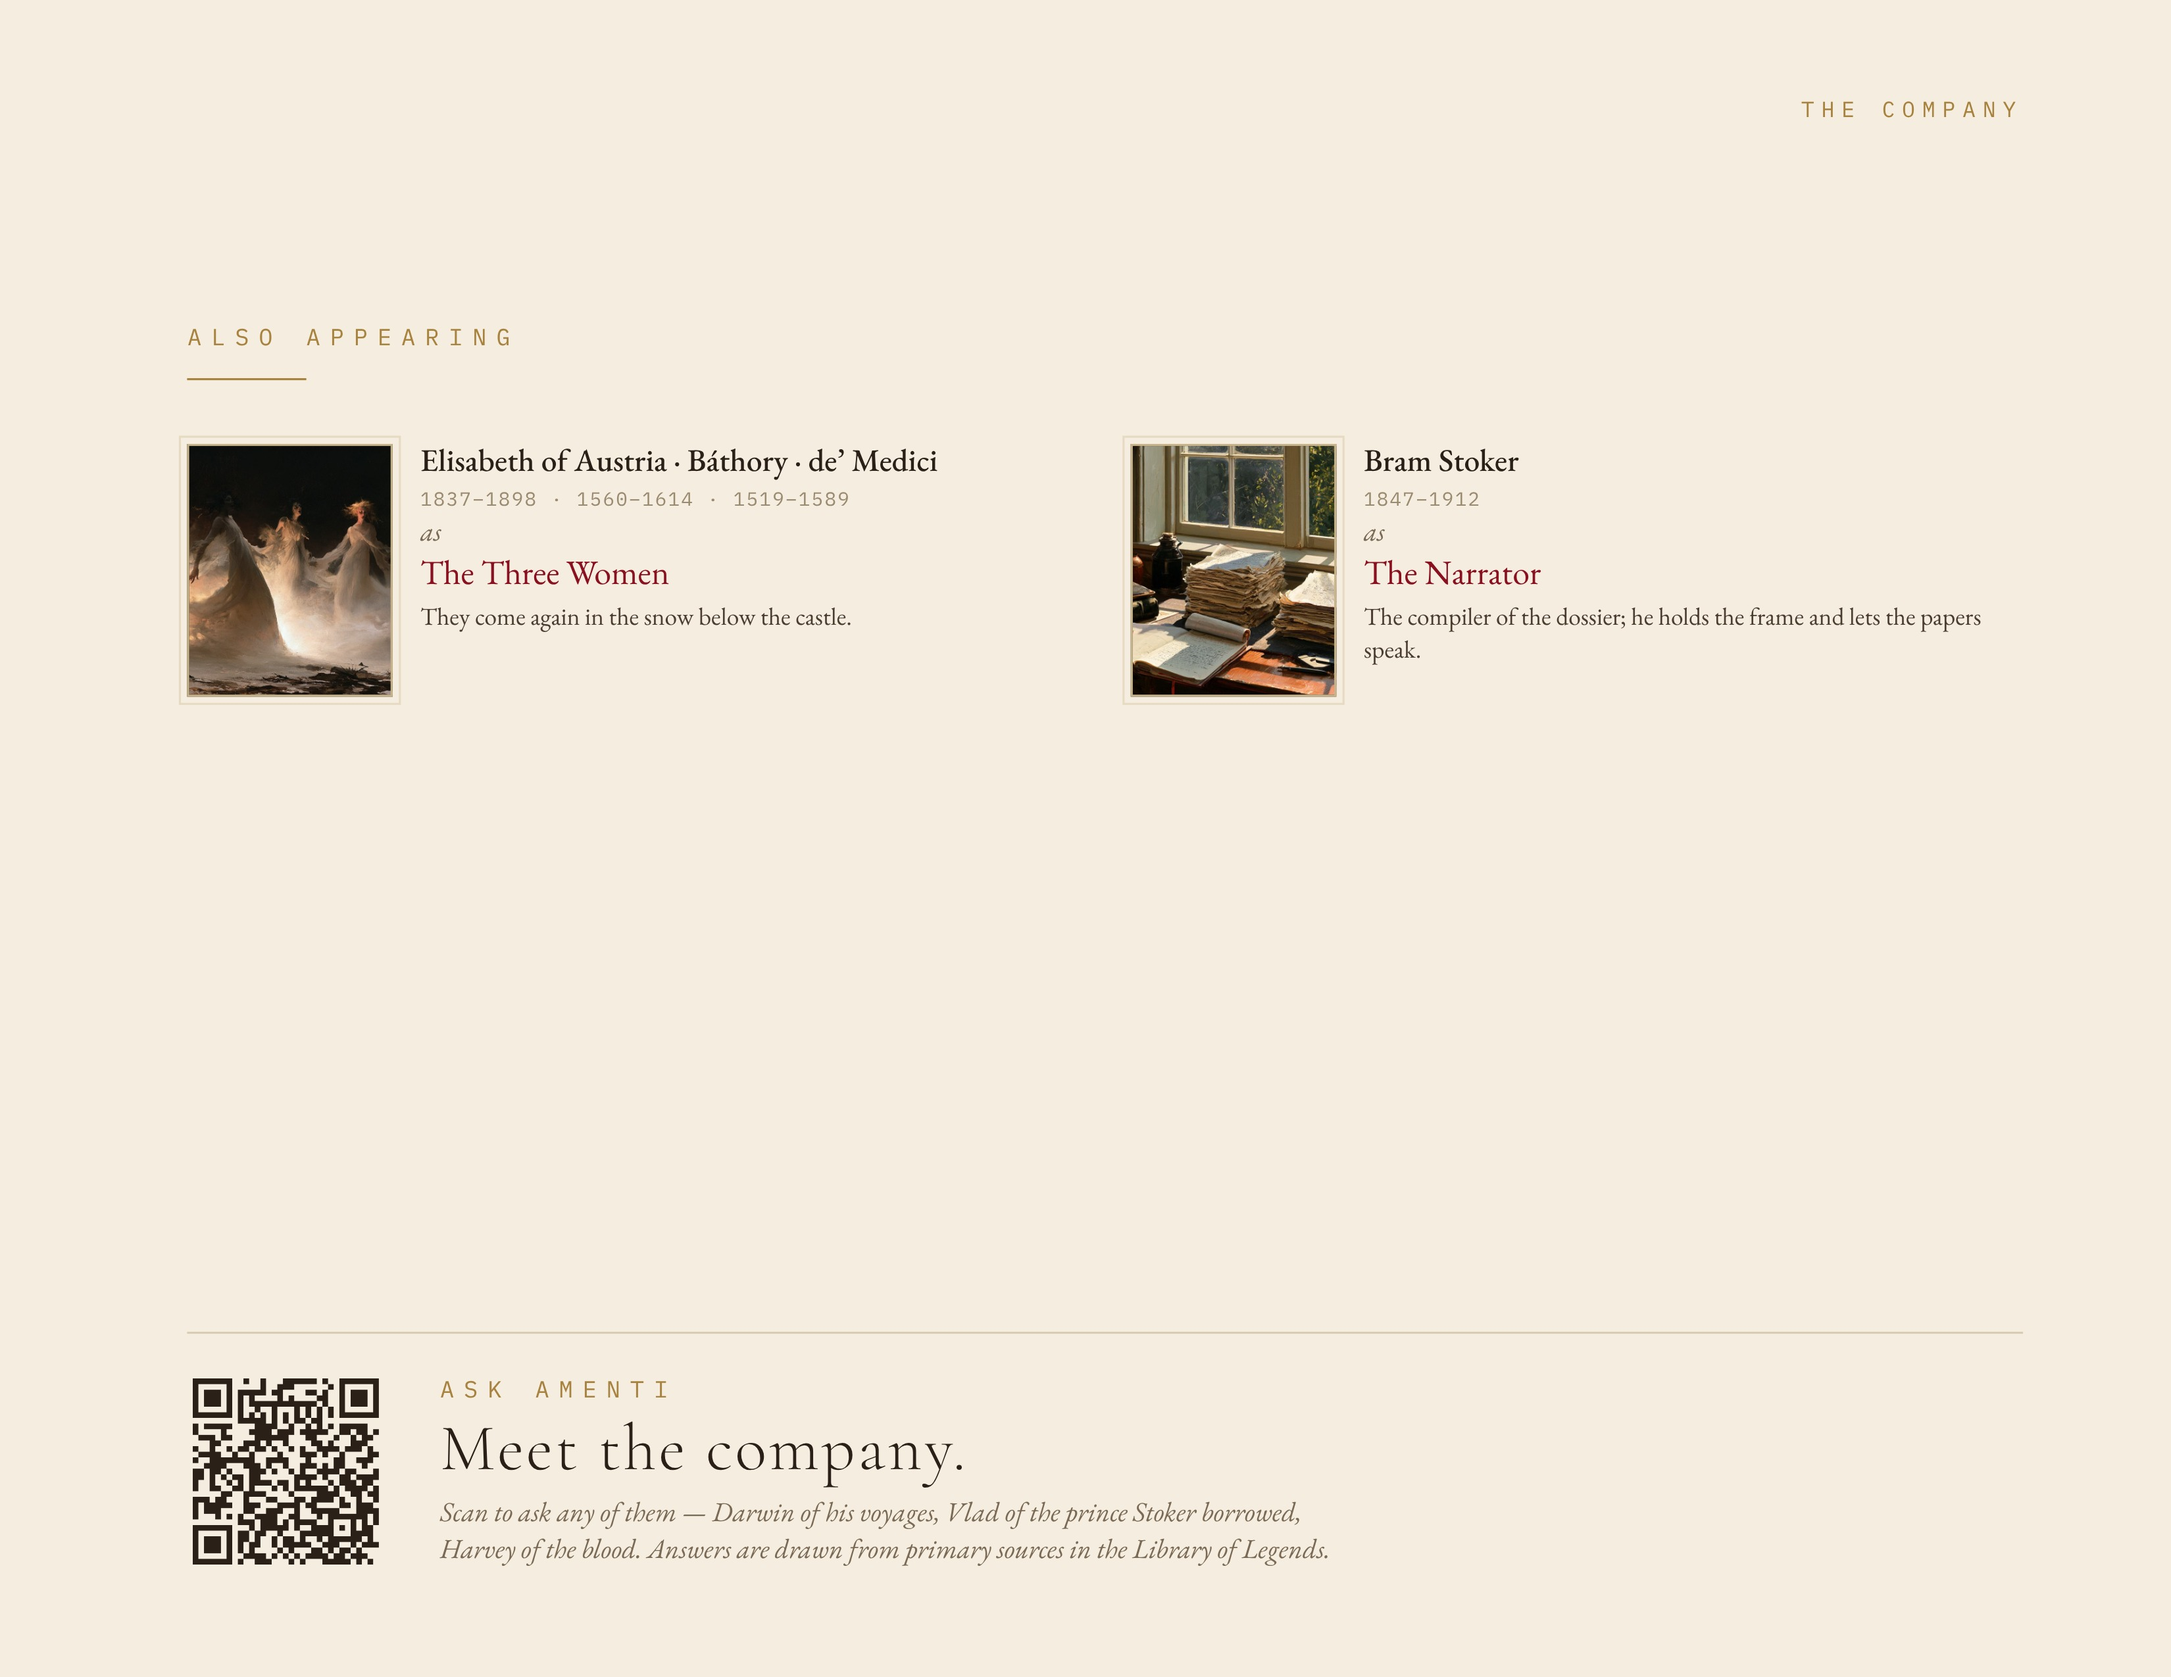
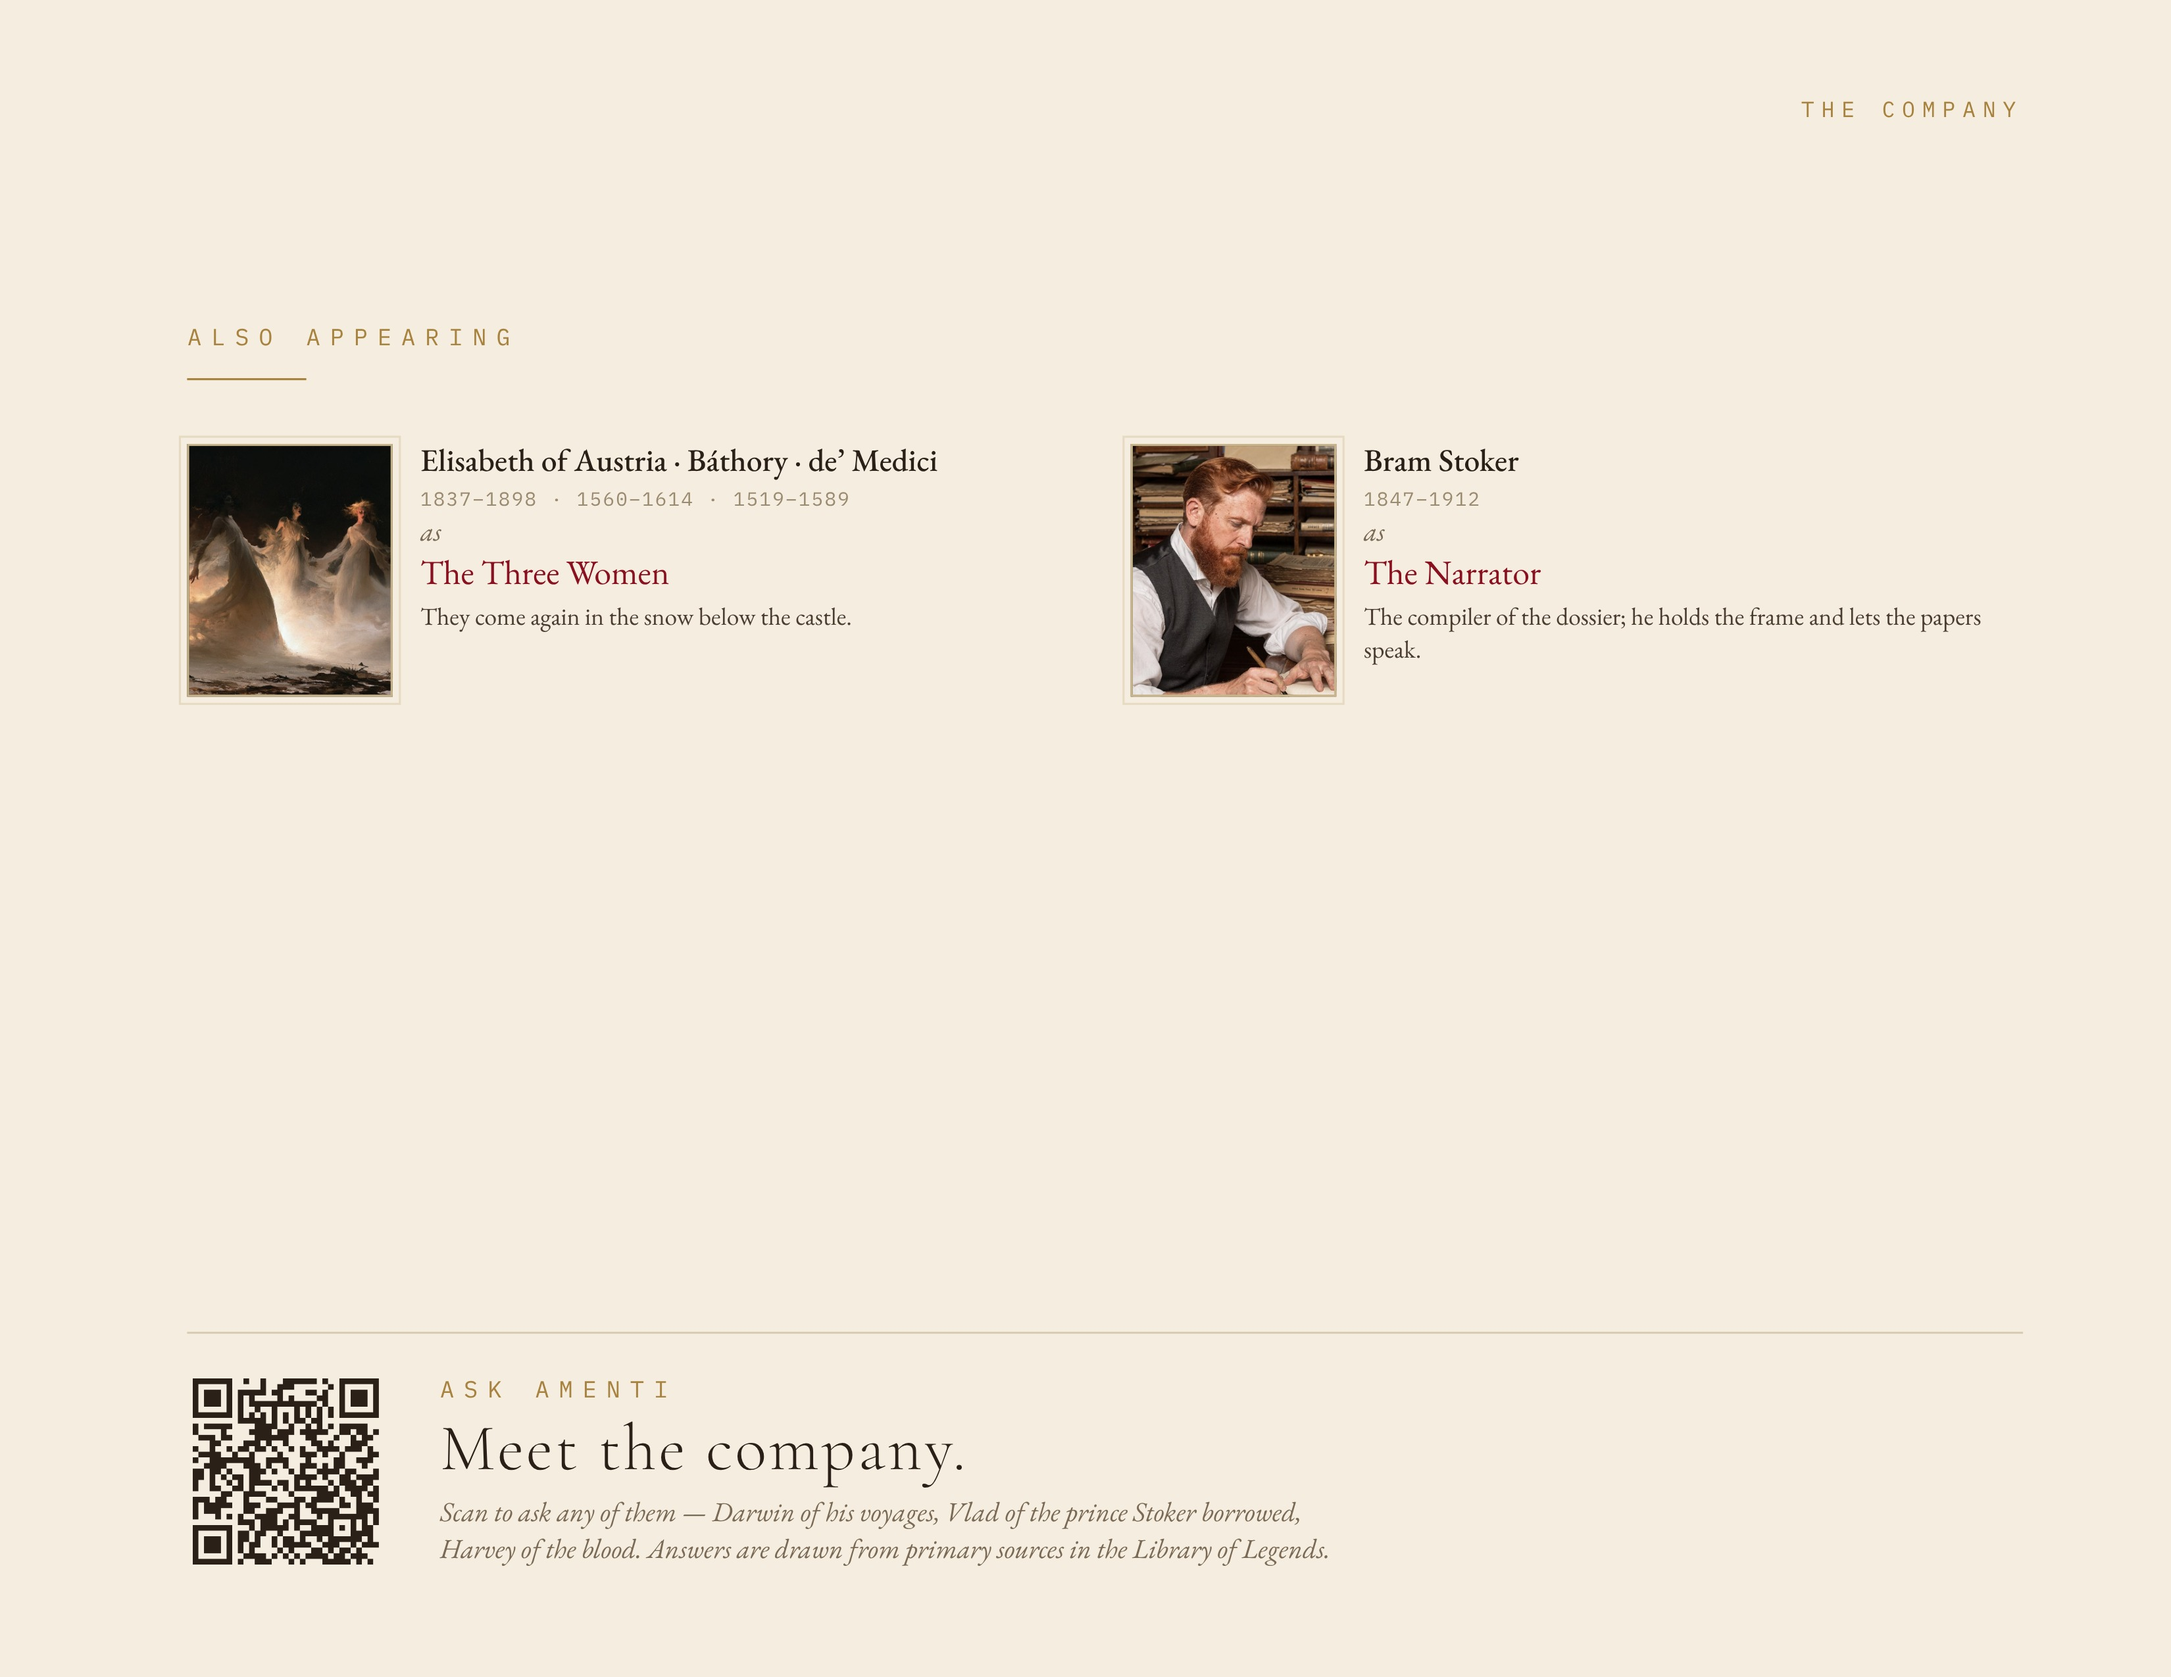
Volume Two cast: Bram Stoker's Library of Legends portrait for the Narrator
Claude-Session: https://claude.ai/code/session_013VwDP7mPLrP4eYudhxc4u4

Changed region(s): [[0.4994, 0.2478, 0.6242, 0.4337]]

diff --git a/dracula/books/volume-2/print/cast.html b/dracula/books/volume-2/print/cast.html
@@ -53,6 +53,6 @@ html,body{margin:0;background:#555}
 <div style="position:absolute;left:.75in;right:.95in;top:.9in;text-align:left"><div class="k">Dramatis personae</div><div style="font:300 34pt/1.1 C;letter-spacing:.06em;margin:.06in 0">The Company</div>
 <div style="font:italic 11pt G;color:#7a6a55">Every voice is a figure from the Library of Legends.</div><div class="rule" style="margin:.14in 0 0"></div></div>
 <div class="co" style="left:.75in;right:.95in;grid-template-columns:1fr 1fr"><div class="c"><div class="ph" style="background-image:url(file:///home/claude/ar/dracula/art/ref/bk3-jonathan-white.jpg);background-position:center 20%"></div><div><div class="nm">Charles Darwin</div><div class="dt">1809–1882</div><div class="as">as</div><div class="ro">Jonathan Harker</div><div class="wy">A careful observer; his hair turned white the night the Count came for Mina.</div></div></div><div class="c"><div class="ph" style="background-image:url(file:///home/claude/ar/dracula/art/ref/bk2-count-london.jpg);background-position:center 25%"></div><div><div class="nm">Vlad the Impaler</div><div class="dt">1431–1476</div><div class="as">as</div><div class="ro">Count Dracula</div><div class="wy">Stoker took the name from him. Younger now, and on the run.</div></div></div><div class="c"><div class="ph" style="background-image:url(file:///home/claude/ar/dracula/art/ref/bk3-mina-scar-3.jpg);background-position:center 22%"></div><div><div class="nm">Agatha Christie</div><div class="dt">1890–1976</div><div class="as">as</div><div class="ro">Mina Harker</div><div class="wy">Marked by the Host, she reads the Count through trance and solves the pursuit.</div></div></div><div class="c"><div class="ph" style="background-image:url(file:///home/claude/ar/dracula/art/ref/bk2-van-helsing.jpg);background-position:center 22%"></div><div><div class="nm">Antony van Leeuwenhoek</div><div class="dt">1632–1723</div><div class="as">as</div><div class="ro">Abraham Van Helsing</div><div class="wy">A Dutchman who saw, through his lenses, what no one else could.</div></div></div><div class="c"><div class="ph" style="background-image:url(file:///home/claude/ar/dracula/art/ref/bk2-seward.jpg);background-position:center 25%"></div><div><div class="nm">William Harvey</div><div class="dt">1578–1657</div><div class="as">as</div><div class="ro">Dr. John Seward</div><div class="wy">The physician who traced the circulation of the blood.</div></div></div><div class="c"><div class="ph" style="background-image:url(file:///home/claude/ar/dracula/art/ref/bk2-arthur.jpg);background-position:center 25%"></div><div><div class="nm">J.R.R. Tolkien</div><div class="dt">1892–1973</div><div class="as">as</div><div class="ro">Arthur Holmwood</div><div class="wy">A devoted lover who wrote his own courtship into legend.</div></div></div><div class="c"><div class="ph" style="background-image:url(file:///home/claude/ar/dracula/art/ref/bk2-quincey.jpg);background-position:center 25%"></div><div><div class="nm">Lyndon B. Johnson</div><div class="dt">1908–1973</div><div class="as">as</div><div class="ro">Quincey P. Morris</div><div class="wy">The Texan.</div></div></div><div class="c"><div class="ph" style="background-image:url(file:///home/claude/ar/dracula/art/ref/bk2-renfield.jpg);background-position:center 25%"></div><div><div class="nm">Jack the Ripper</div><div class="dt">active 1888</div><div class="as">as</div><div class="ro">R. M. Renfield</div><div class="wy">Victorian London’s enigma — lucid one moment, raving for his Master the next.</div></div></div></div></div><div class="pg R"><div class="rh">The Company</div><div style="position:absolute;left:.95in;top:1.62in"><div class="k">Also appearing</div><div class="rule" style="margin:.14in 0 0"></div></div>
-<div class="co" style="left:.95in;right:.75in;grid-template-columns:1fr 1fr"><div class="c"><div class="ph" style="background-image:url(file:///home/claude/ar/dracula/art/ch27-sisters-0.jpg);background-position:48% 40%"></div><div><div class="nm">Elisabeth of Austria · Báthory · de’ Medici</div><div class="dt">1837–1898 · 1560–1614 · 1519–1589</div><div class="as">as</div><div class="ro">The Three Women</div><div class="wy">They come again in the snow below the castle.</div></div></div><div class="c"><div class="ph" style="background-image:url(file:///home/claude/ar/dracula/art/ch27-papers-1.jpg);background-position:center 40%"></div><div><div class="nm">Bram Stoker</div><div class="dt">1847–1912</div><div class="as">as</div><div class="ro">The Narrator</div><div class="wy">The compiler of the dossier; he holds the frame and lets the papers speak.</div></div></div></div>
+<div class="co" style="left:.95in;right:.75in;grid-template-columns:1fr 1fr"><div class="c"><div class="ph" style="background-image:url(file:///home/claude/ar/dracula/art/ch27-sisters-0.jpg);background-position:48% 40%"></div><div><div class="nm">Elisabeth of Austria · Báthory · de’ Medici</div><div class="dt">1837–1898 · 1560–1614 · 1519–1589</div><div class="as">as</div><div class="ro">The Three Women</div><div class="wy">They come again in the snow below the castle.</div></div></div><div class="c"><div class="ph" style="background-image:url(file:///tmp/claude-0/vol2/bram-stoker-card.jpg);background-size:auto 210%;background-position:48% 20%"></div><div><div class="nm">Bram Stoker</div><div class="dt">1847–1912</div><div class="as">as</div><div class="ro">The Narrator</div><div class="wy">The compiler of the dossier; he holds the frame and lets the papers speak.</div></div></div></div>
 <div style="position:absolute;left:.95in;right:.75in;top:6.75in;height:1.3in;display:flex;align-items:center;gap:.28in;border-top:1px solid #d9ccb3;padding-top:.1in">
 <img src="company-qr.png" style="width:1.0in;height:1.0in"><div><div class="k">Ask Amenti</div><div style="font:300 24pt/1.15 C;letter-spacing:.04em;margin:.04in 0">Meet the company.</div><div style="font:italic 10pt/1.35 G;color:#7a6a55;max-width:4.6in">Scan to ask any of them — Darwin of his voyages, Vlad of the prince Stoker borrowed, Harvey of the blood. Answers are drawn from primary sources in the Library of Legends.</div></div></div></div><script>document.fonts.ready.then(()=>document.title='done')</script></body></html>
